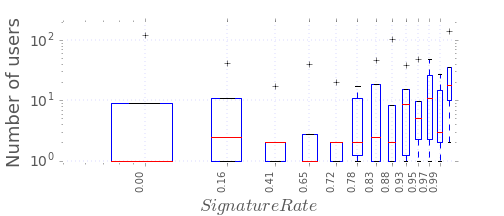
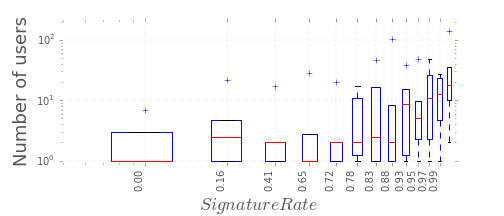
fixes to the graphs and conclusions

diff --git a/sections/petition_analysis.tex b/sections/petition_analysis.tex
@@ -80,7 +80,7 @@ Since it is not trivial to provide step-by-step instructions on how to drive you
 
 \textbf{Does petition success correlate with the number of tweets? - Yes.} We have observed uniform distribution for the petitions with 0 tweets found on \url{backtweets.com} in terms of $SignatureRate$. On the contrary, for the petitions with several tweet carrying its direct URL we have observed a very high fraction of successful ones (88\%). This effect is particularly strong when we consider only tweets without campaign hashtags. We have observed similar behavior for \url{thepetitionsite.com} petitions.
 
-\textbf{Does the number of users posting about the petition affect its success? - Yes.} We have binned the petitions from the campaign corpus into 13 bins based on the $SignatureRate$, and extracted the average number of unique users posting about the petition in the bin. Figure~\ref{fig:signatures_vs_users} shows a boxer plot with 25th, 50th and 75th percentile for each bin. As a result, we have found moderate positive correlation with Pearson correlation of 0.7 for bin mean values.
+\textbf{Does the number of users posting about the petition affect its success? - Yes.} We have binned the petitions from the campaign corpus based on the $SignatureRate$, and extracted the average number of unique users posting about the petition in each bin. Figure~\ref{fig:signatures_vs_users} shows a boxer plot with 25th, 50th and 75th percentile for each bin. As a result, we have found moderate positive correlation with Pearson correlation of 0.7 for the bin mean values.
 
 \begin{figure}
 \centering

diff --git a/sections/conclusions.tex b/sections/conclusions.tex
@@ -5,9 +5,8 @@ In this paper we introduce a dataset of environmental petitions that were promot
 We study the petition role as one of the actions performed by a public campaign.
 We propose a model to identify successful petitions by their presence on Twitter and highlight the main aspects featuring a petition to obtain required number of signatures.
 % We show that the more critical petition is, the more likely it is to have a high signature goal and the more likely it is to collect signatures.
-Although, our dataset is limited in size, we made a best effort data collection and cleaning, and could observe the spread of the petitions within the public environmental campaigns and identify the major factors that may lead to the success of the petition.
-% TODO: Add materials about the petitions from the "thepetition.com"... if I have time to do it!!!!
-Our findings can provide helpful directions for all leaders of the public campaigns, its participants, petition initiators and signers.
+Although, our dataset is limited in size, we made a best effort data collection and cleaning, and could observe the spread of the petitions within the public environmental campaigns and identify the major factors that may correlate with the success of the petition.
+Our findings can provide helpful directions for all, leaders of the public campaigns, its participants, petition initiators and signers.
 
 % Future work and limitation.
 % 1.
